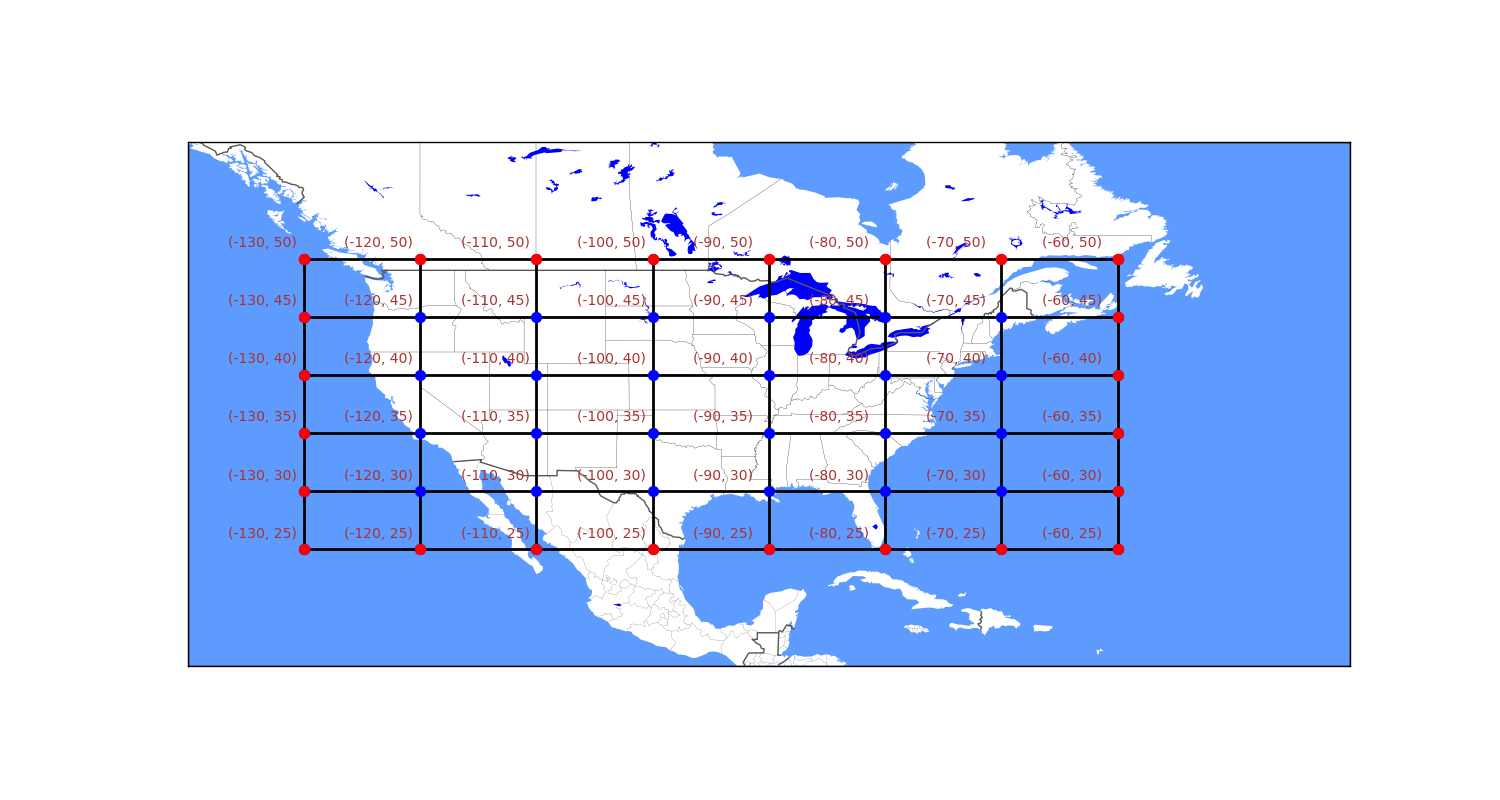
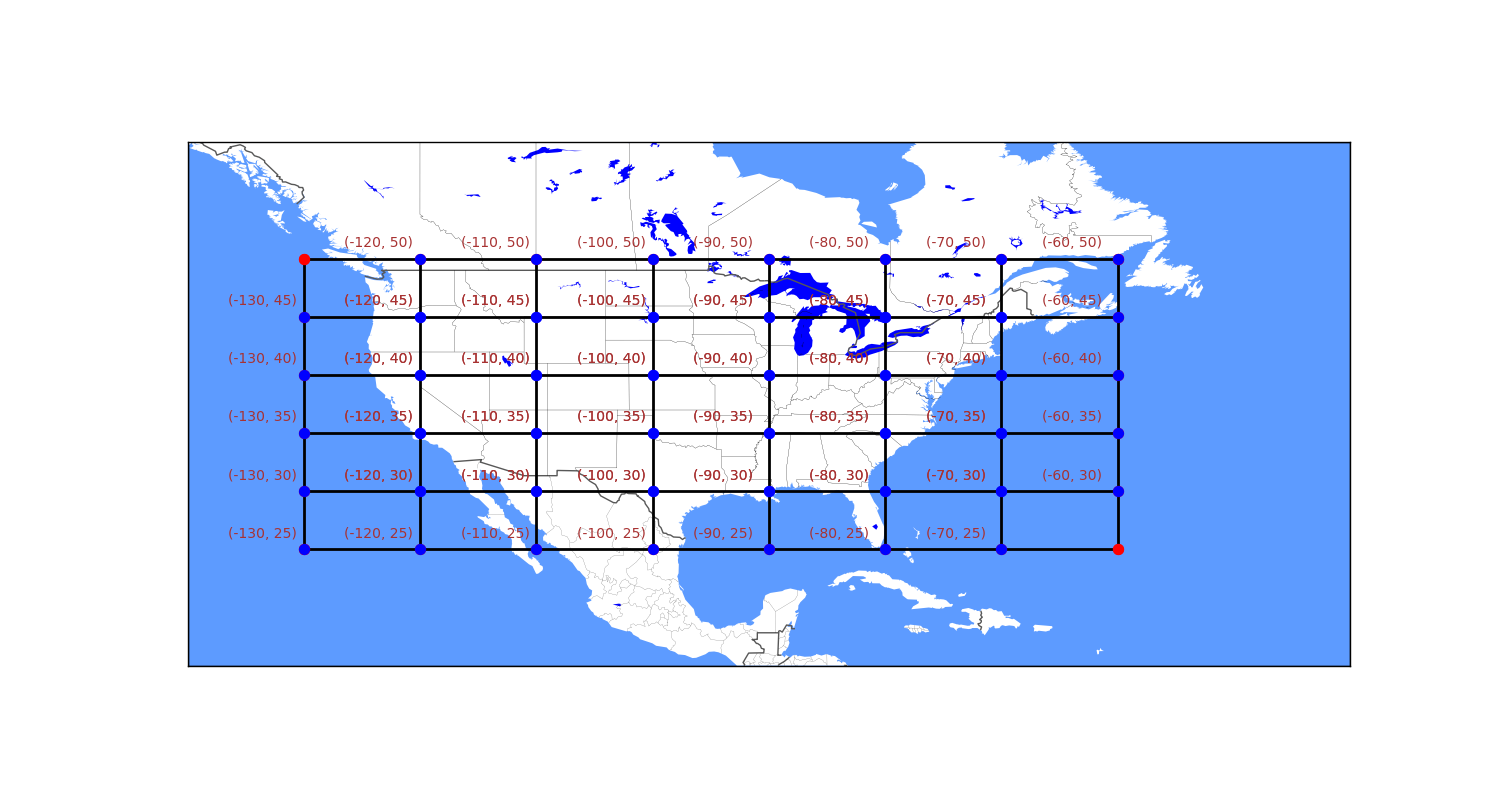
More work on scaling and simulation

diff --git a/2_scaling_and_simulation/ploting/test.py b/2_scaling_and_simulation/ploting/test.py
@@ -14,9 +14,15 @@ for llcrnlon in range(-130, -60, 10):
     
 
 print(count)
-import sys
-sys.exit()
-print("-------------")
-for line_longitude in range(-130, -50, 10):
-    for line_latitude in range(25, 55, 5):
-         print(line_longitude, line_latitude)
+import json
+import os, shutil
+
+output_filename = 'simulated_data_10_04_2019'
+dirpath = os.path.join('', output_filename)
+if os.path.exists(dirpath) and os.path.isdir(dirpath):
+    shutil.rmtree(dirpath)
+os.mkdir(output_filename)
+
+all_routes = []
+with open(output_filename+'/-130_25_-120_30.json', 'w') as outfile:
+    json.dump(all_routes, outfile)

diff --git a/2_scaling_and_simulation/ploting/plot_zone_rute.py b/2_scaling_and_simulation/ploting/plot_zone_rute.py
@@ -42,4 +42,5 @@ for llcrnlon in range(-130, -60, 10):
         m.scatter(urcrnrlon, urcrnrlat, zorder=5, s=50, color="#0000FF", marker="o")
         plt.text(urcrnrlon-6.5, urcrnrlat+1, coordinates_string, color="#a83232")
 
+plt.savefig("plot_images/zone_rute.png")
 plt.show()
